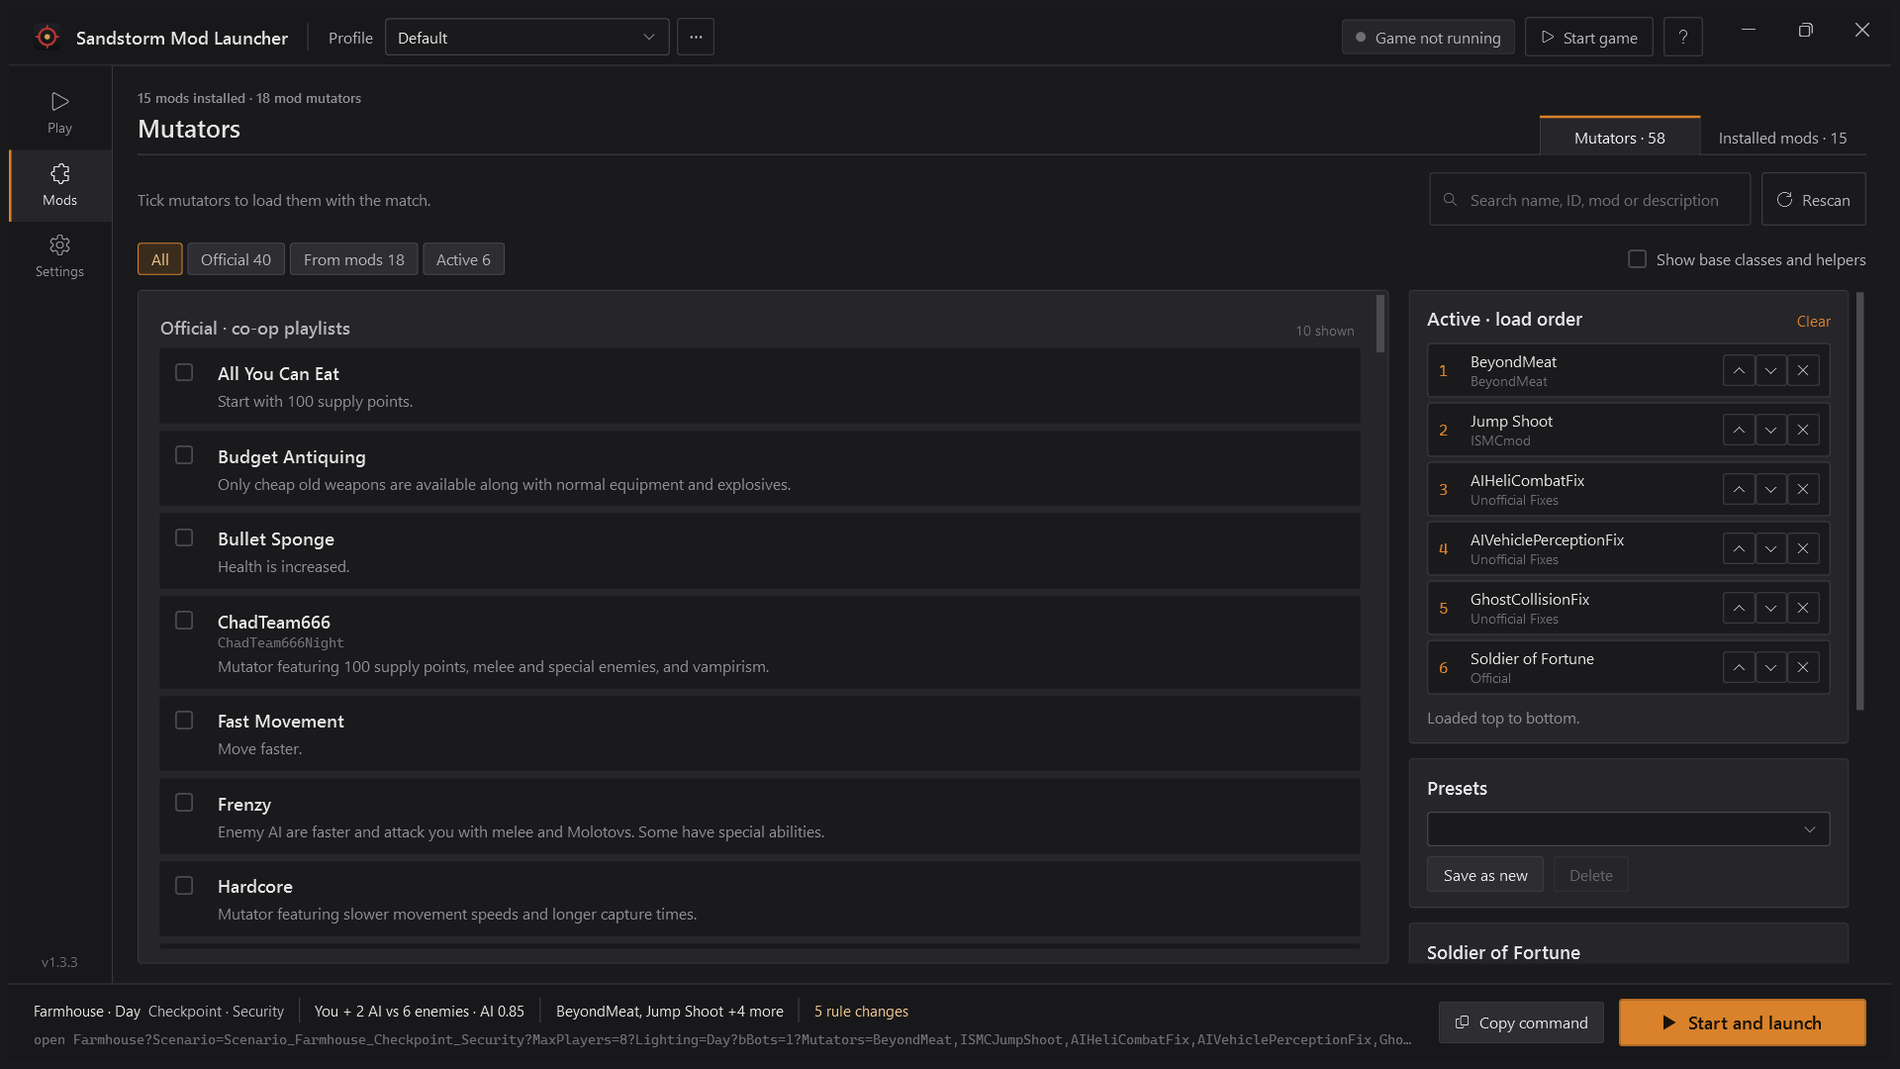
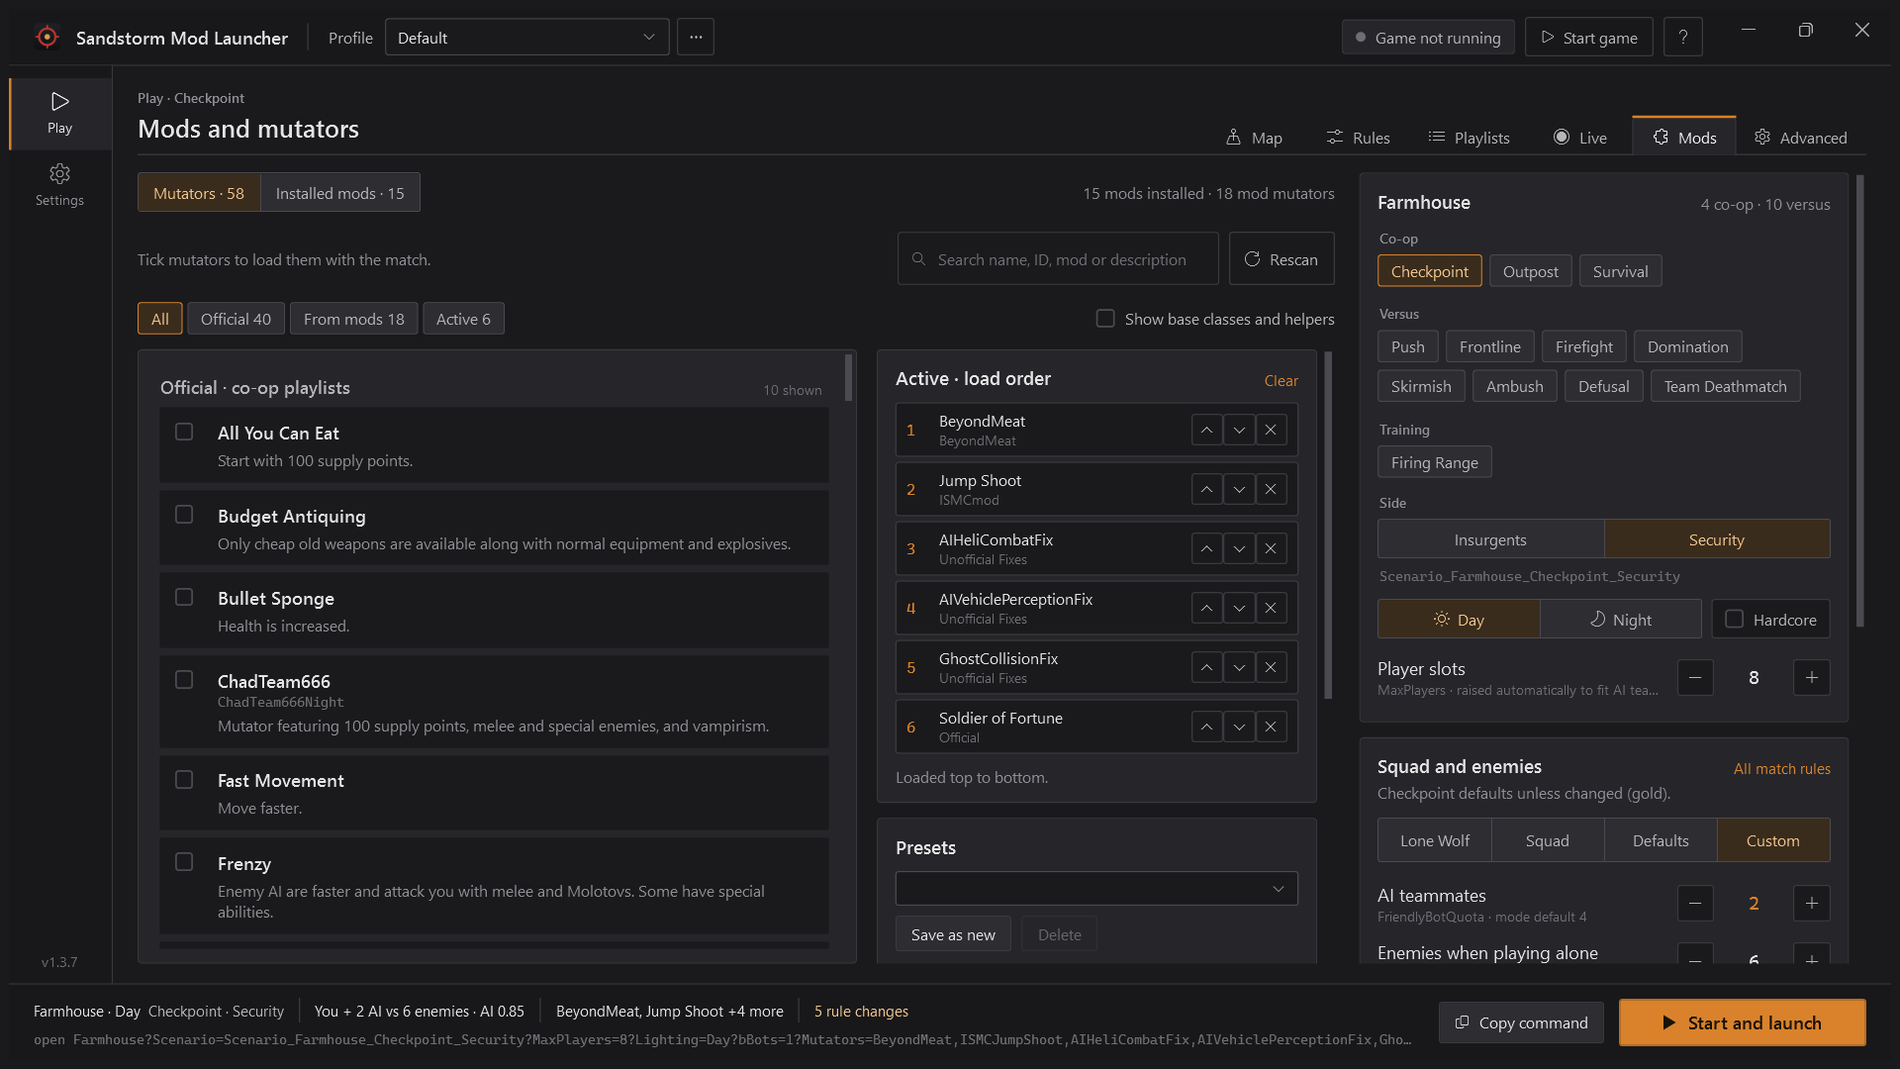
1.3.7: Ambush and Free For All start with bots, Mods as a Play tab
- Versus with bots: MinimumPlayers/MinimumPlayersInProgress above 1 (Ambush, FFA) set to 1, BotQuota 5 when the mode's default is 0 and the profile sets none (Ambush, Defusal, FFA), and player slots raised to fit the bots (2 x BotQuota + 2).

- Mods (Mutators / Installed mods) is a Play tab before Advanced; the Mods nav entry is gone (Page=Mods maps to Play > Mods). Flexible list columns in the Mods tab.

- --plan-test out.txt: open command, slots and after-load commands for one scenario of every mode.

diff --git a/Views/Pages/ModsPage.xaml b/Views/Pages/ModsPage.xaml
@@ -2,45 +2,26 @@
              xmlns="http://schemas.microsoft.com/winfx/2006/xaml/presentation"
              xmlns:x="http://schemas.microsoft.com/winfx/2006/xaml"
              xmlns:p="clr-namespace:SandstormModLauncher.Views.Pages">
-    <UserControl.Resources>
-        <Style x:Key="TabSegment" TargetType="RadioButton" BasedOn="{StaticResource PageTab}">
-            <Setter Property="MinWidth" Value="130" />
-        </Style>
-    </UserControl.Resources>
-    <Grid Margin="20,18,20,16">
+    <!-- A tab of the Play page (since 1.3.7): Play draws the page header, this only switches Mutators / Installed mods. -->
+    <Grid Margin="0,14,0,0">
         <Grid.RowDefinitions>
             <RowDefinition Height="Auto" />
             <RowDefinition Height="*" />
         </Grid.RowDefinitions>
 
-        <Border Style="{StaticResource TabStrip}">
-        <DockPanel LastChildFill="False">
-            <StackPanel DockPanel.Dock="Left" Margin="0,0,0,8">
-                <TextBlock Style="{StaticResource Kicker}" Text="{Binding ModsSummary}" />
-                <TextBlock FontSize="20" Margin="0,2,0,0">
-                    <TextBlock.Style>
-                        <Style TargetType="TextBlock" BasedOn="{StaticResource H1}">
-                            <Setter Property="Text" Value="Mutators" />
-                            <Style.Triggers>
-                                <DataTrigger Binding="{Binding ModsTab}" Value="Installed"><Setter Property="Text" Value="Installed mods" /></DataTrigger>
-                            </Style.Triggers>
-                        </Style>
-                    </TextBlock.Style>
-                </TextBlock>
-            </StackPanel>
-            <Border DockPanel.Dock="Right" VerticalAlignment="Bottom">
+        <DockPanel Margin="0,0,0,2">
+            <TextBlock DockPanel.Dock="Right" Style="{StaticResource Mute}" VerticalAlignment="Center" Text="{Binding ModsSummary}" />
+            <Border Style="{StaticResource SegmentHost}" HorizontalAlignment="Left">
                 <StackPanel Orientation="Horizontal">
-                    <RadioButton Style="{StaticResource TabSegment}" IsChecked="{Binding ModsTab, Converter={StaticResource Eq}, ConverterParameter=Mutators}">
+                    <RadioButton Style="{StaticResource Segment}" MinHeight="30" IsChecked="{Binding ModsTab, Converter={StaticResource Eq}, ConverterParameter=Mutators}">
                         <TextBlock><Run Text="Mutators · " /><Run Text="{Binding TotalMutatorCount, Mode=OneWay}" /></TextBlock>
                     </RadioButton>
-                    <RadioButton Style="{StaticResource TabSegment}" IsChecked="{Binding ModsTab, Converter={StaticResource Eq}, ConverterParameter=Installed}">
+                    <RadioButton Style="{StaticResource Segment}" MinHeight="30" IsChecked="{Binding ModsTab, Converter={StaticResource Eq}, ConverterParameter=Installed}">
                         <TextBlock><Run Text="Installed mods · " /><Run Text="{Binding ModCount, Mode=OneWay}" /></TextBlock>
                     </RadioButton>
                 </StackPanel>
             </Border>
         </DockPanel>
-        </Border>
-
         <p:MutatorsPage Grid.Row="1" Visibility="{Binding ModsTab, Converter={StaticResource Vis}, ConverterParameter=Mutators}" />
 
         <Grid Grid.Row="1" Visibility="{Binding ModsTab, Converter={StaticResource Vis}, ConverterParameter=Installed}">
@@ -76,7 +57,7 @@
 
             <Grid Grid.Row="1">
                 <Grid.ColumnDefinitions>
-                    <ColumnDefinition Width="430" />
+                    <ColumnDefinition Width="0.8*" MinWidth="260" MaxWidth="430" />
                     <ColumnDefinition Width="16" />
                     <ColumnDefinition Width="*" />
                 </Grid.ColumnDefinitions>

diff --git a/Views/Pages/PlayPage.xaml b/Views/Pages/PlayPage.xaml
@@ -72,6 +72,7 @@
                                     <DataTrigger Binding="{Binding PlayTab}" Value="Rules"><Setter Property="Text" Value="Match rules" /></DataTrigger>
                                     <DataTrigger Binding="{Binding PlayTab}" Value="Playlists"><Setter Property="Text" Value="Official playlists" /></DataTrigger>
                                     <DataTrigger Binding="{Binding PlayTab}" Value="Live"><Setter Property="Text" Value="Live match control" /></DataTrigger>
+                                    <DataTrigger Binding="{Binding PlayTab}" Value="Mods"><Setter Property="Text" Value="Mods and mutators" /></DataTrigger>
                                     <DataTrigger Binding="{Binding PlayTab}" Value="Advanced"><Setter Property="Text" Value="Advanced options" /></DataTrigger>
                                 </Style.Triggers>
                             </Style>
@@ -109,6 +110,13 @@
                                              Visibility="{Binding InMatch, Converter={StaticResource Vis}}" />
                                 </Grid>
                                 <TextBlock Text="Live" />
+                            </StackPanel>
+                        </RadioButton>
+                        <RadioButton Style="{StaticResource TabSegment}" IsChecked="{Binding PlayTab, Converter={StaticResource Eq}, ConverterParameter=Mods}"
+                                     ToolTip="Mutators for the match (official and from mods) and the mods the game has installed">
+                            <StackPanel Orientation="Horizontal">
+                                <TextBlock Text="&#xEA86;" Style="{StaticResource Icon}" FontSize="13" Margin="0,0,8,0" />
+                                <TextBlock Text="Mods" />
                             </StackPanel>
                         </RadioButton>
                         <RadioButton Style="{StaticResource TabSegment}" IsChecked="{Binding PlayTab, Converter={StaticResource Eq}, ConverterParameter=Advanced}"
@@ -419,6 +427,7 @@
             <!-- ============================================================ playlists + live -->
             <p:PlaylistsPage Grid.Row="0" Grid.RowSpan="2" Visibility="{Binding PlayTab, Converter={StaticResource Vis}, ConverterParameter=Playlists}" />
             <p:LivePage Grid.Row="0" Grid.RowSpan="2" Visibility="{Binding PlayTab, Converter={StaticResource Vis}, ConverterParameter=Live}" />
+            <p:ModsPage Grid.Row="0" Grid.RowSpan="2" Visibility="{Binding PlayTab, Converter={StaticResource Vis}, ConverterParameter=Mods}" />
 
             <!-- ============================================================ advanced -->
             <Border Grid.Row="0" Grid.RowSpan="2" Style="{StaticResource Card}" Padding="0" Margin="0,14,0,0" Visibility="{Binding PlayTab, Converter={StaticResource Vis}, ConverterParameter=Advanced}">

diff --git a/Views/MainWindow.xaml b/Views/MainWindow.xaml
@@ -127,7 +127,6 @@
                         </StackPanel>
                         <StackPanel Margin="0,10,0,0">
                             <RadioButton Style="{StaticResource NavButton}" Content="Play" Tag="&#xE768;" IsChecked="{Binding Page, Converter={StaticResource Eq}, ConverterParameter=Play}" ToolTip="Map, squad, rules, official playlists and live control of the match" />
-                            <RadioButton Style="{StaticResource NavButton}" Content="Mods" Tag="&#xEA86;" IsChecked="{Binding Page, Converter={StaticResource Eq}, ConverterParameter=Mods}" ToolTip="Mutators (official and from mods) and installed mods" />
                             <RadioButton Style="{StaticResource NavButton}" Content="Settings" Tag="&#xE713;" IsChecked="{Binding Page, Converter={StaticResource Eq}, ConverterParameter=Settings}" ToolTip="Game folder, console key, launch options" />
                         </StackPanel>
                     </DockPanel>
@@ -138,7 +137,6 @@
                     <Grid MinWidth="980" MinHeight="600"
                           Width="{Binding ViewportWidth, ElementName=pageScroll}" Height="{Binding ViewportHeight, ElementName=pageScroll}">
                         <p:PlayPage Visibility="{Binding Page, Converter={StaticResource Vis}, ConverterParameter=Play}" />
-                        <p:ModsPage Visibility="{Binding Page, Converter={StaticResource Vis}, ConverterParameter=Mods}" />
                         <p:SettingsPage Visibility="{Binding Page, Converter={StaticResource Vis}, ConverterParameter=Settings}" />
                     </Grid>
                 </ScrollViewer>

diff --git a/Views/Pages/MutatorsPage.xaml b/Views/Pages/MutatorsPage.xaml
@@ -50,7 +50,7 @@
             <Grid.ColumnDefinitions>
                 <ColumnDefinition Width="*" />
                 <ColumnDefinition Width="16" />
-                <ColumnDefinition Width="370" />
+                <ColumnDefinition Width="0.8*" MinWidth="240" MaxWidth="370" />
             </Grid.ColumnDefinitions>
 
             <!-- list -->

diff --git a/Game/LaunchPlan.cs b/Game/LaunchPlan.cs
@@ -117,6 +117,18 @@ namespace SandstormModLauncher.Game
                 && !(p.Rules.TryGetValue(cls, out var own) && own.ContainsKey("bBots")))
                 plan.Overrides["bBots"] = "True";
 
+            // Ambush and Free For All wait for two human players (MinimumPlayers=2) before the match starts, and bots
+            // only join once it has started, so offline they sat at "waiting for players" with no bots. With bots on,
+            // one player is enough (unless the profile sets these itself).
+            bool versusBots = plan.Mode != null && !plan.Mode.Coop && plan.Overrides.TryGetValue("bBots", out var vb) && IsTrue(vb);
+            // Ambush, Defusal and Free For All also default to BotQuota=0: bots "on" but none would come.
+            if (versusBots && !plan.Overrides.ContainsKey("BotQuota") && int.TryParse(db.DefaultValue(cls, "BotQuota"), out int dq) && dq <= 0)
+                plan.Overrides["BotQuota"] = "5";
+            if (versusBots)
+                foreach (var key in new[] { "MinimumPlayers", "MinimumPlayersInProgress" })
+                    if (int.TryParse(db.DefaultValue(cls, key), out int min) && min > 1 && !(p.Rules.TryGetValue(cls, out var own3) && own3.ContainsKey(key)))
+                        plan.Overrides[key] = "1";
+
             // Co-op AI teammates only join when the mode fills teams with bots (bBots is off by default).
             if (plan.Mode != null && plan.Mode.Coop && plan.Mode.Defaults.ContainsKey("bBots")
                 && int.TryParse(plan.Overrides.TryGetValue("FriendlyBotQuota", out var fbq) ? fbq : db.DefaultValue(cls, "FriendlyBotQuota"), out int fbn) && fbn > 0
@@ -135,6 +147,14 @@ namespace SandstormModLauncher.Game
                 wantsMates = int.TryParse(fb, out int mates) && mates > 0;
                 // Offline nobody else joins, so plenty of slots costs nothing; too few and the AI teammates do not join.
                 if (wantsMates) plan.PlayerSlots = Math.Max(plan.PlayerSlots, Math.Max(8, 1 + mates + 2));
+            }
+            else if (versusBots)
+            {
+                // Versus bots take player slots as well (BotQuota per team, or all the bots in Free For All): a profile
+                // left at 1 slot from Lone Wolf co-op meant no bot could join.
+                string bq = plan.Overrides.TryGetValue("BotQuota", out var bqo) ? bqo : db.DefaultValue(cls, "BotQuota");
+                int quota = int.TryParse(bq, out int q) && q > 0 ? q : 5;
+                plan.PlayerSlots = Math.Max(plan.PlayerSlots, Math.Min(64, 2 * quota + 2));
             }
             url.Append("?MaxPlayers=").Append(plan.PlayerSlots);
             url.Append("?Lighting=").Append(p.Lighting == "Night" ? "Night" : "Day");

diff --git a/Services/SelfTest.cs b/Services/SelfTest.cs
@@ -102,6 +102,35 @@ namespace SandstormModLauncher
             File.WriteAllText(outFile + ".plan.txt", "Open: " + plan.OpenCommand + "\r\nPlayer slots: " + plan.PlayerSlots + "\r\n\r\n" + plan.GameIniBlock);
         }
 
+        /// <summary>--plan-test out.txt: the open command and after-load commands for one scenario of every game mode (active profile).</summary>
+        public static void PlanTest(string outFile)
+        {
+            var state = new AppState();
+            state.Store.Load();
+            state.Rules = RulesDb.LoadEmbedded();
+            state.Install = GameInstall.Detect(state.Settings.GameDirOverride);
+            string cache = GameInstall.DemoCacheDir ?? Path.Combine(AppPaths.DataDir, "cache");
+            state.Official = GameCatalog.Load(state.Install, cache, m => { });
+            state.Mods = ModScanner.Scan(state.Install, state.Settings.ExtraModFolders, cache, m => { });
+            state.Rebuild();
+            var sb = new StringBuilder();
+            var p = state.Store.Active;
+            string keepMap = p.MapKey, keepScenario = p.ScenarioId;
+            foreach (var group in state.AllScenarios.Where(s => s.Category != "Training").GroupBy(s => s.GameModeClass))
+            {
+                var sc = group.First();
+                p.ScenarioId = sc.Id;
+                p.MapKey = state.Maps.FirstOrDefault(m => m.Scenarios.Any(x => x.Id == sc.Id))?.Key;
+                var plan = LaunchPlanner.Build(p, state);
+                sb.AppendLine("== " + group.Key + "  (" + sc.Id + ")");
+                sb.AppendLine("   " + plan.OpenCommand);
+                sb.AppendLine("   slots " + plan.PlayerSlots + "   after load: " + string.Join(" | ", plan.AfterLoad));
+                if (plan.Error != null) sb.AppendLine("   ERROR " + plan.Error);
+            }
+            p.MapKey = keepMap; p.ScenarioId = keepScenario;
+            File.WriteAllText(outFile, sb.ToString(), Encoding.UTF8);
+        }
+
         private static string Trim(string s, int n) => string.IsNullOrEmpty(s) ? "" : (s.Length > n ? s.Substring(0, n) + "..." : s).Replace("\n", " ");
     }
 }

diff --git a/ViewModels/MainViewModel.Settings.cs b/ViewModels/MainViewModel.Settings.cs
@@ -69,7 +69,7 @@ namespace SandstormModLauncher.ViewModels
             HelpCommand = new AsyncCommand(() => ShowMessage("How it works",
                 "1. PLAY > Map: pick a map and scenario, then set your squad and the enemies on the right. Every value starts at that mode's own default. Changed values turn gold.\n\n" +
                 "2. PLAY > Rules has every other match setting of that mode, with play-style presets and the official rulesets. PLAY > Playlists sets up any official online playlist for offline play. PLAY > Advanced shows exactly what will be sent to the game.\n\n" +
-                "3. MODS > Mutators: tick what you want, in load order. MODS > Installed mods lists what the game has downloaded.\n\n" +
+                "3. PLAY > Mods: tick the mutators you want, in load order. Installed mods lists what the game has downloaded.\n\n" +
                 "4. Press LAUNCH (or F5). The launcher writes your rules to Game.ini, starts the game if needed, waits for the main menu and sends the match through the console. It checks on screen that the console is open before typing, and stops if it is not. Keep your hands off the keyboard for those few seconds.\n\n" +
                 "5. PLAY > Live works during a match: restart rounds, set the clock, respawn bots, change rules, without typing commands.\n\n" +
                 "Something wrong? Settings > Something went wrong? saves a report on this PC, or shows a cleaned one you can post on the project's GitHub."));

diff --git a/ViewModels/MainViewModel.Mods.cs b/ViewModels/MainViewModel.Mods.cs
@@ -1,4 +1,4 @@
-using System;
+using System;
 using System.Collections.Generic;
 using System.Collections.ObjectModel;
 using System.ComponentModel;
@@ -48,7 +48,7 @@ namespace SandstormModLauncher.ViewModels
         private void InitModCommands()
         {
             RescanModsCommand = new AsyncCommand(() => RescanMods(false));
-            ModsTabCommand = new RelayCommand(p => { Page = "Mods"; ModsTab = p as string ?? "Mutators"; });
+            ModsTabCommand = new RelayCommand(p => { Page = "Play"; PlayTab = "Mods"; ModsTab = p as string ?? "Mutators"; });
             OpenModFolderCommand = new RelayCommand(p =>
             {
                 string folder = (p as ModItem)?.Info.Folder;
@@ -97,7 +97,7 @@ namespace SandstormModLauncher.ViewModels
             var usable = item.Info.Mutators.Where(m => m.Registered && !m.IsBaseClass).ToList();
             if (usable.Count == 0) { ShowToast("This mod has no mutators to add"); return; }
             if (usable.Count == 1) SetMutatorActive(usable[0].Id, true);
-            else { Page = "Mods"; ModsTab = "Mutators"; MutatorSearch = item.Name; ShowToast("Pick which of the " + usable.Count + " mutators to use"); return; }
+            else { Page = "Play"; PlayTab = "Mods"; ModsTab = "Mutators"; MutatorSearch = item.Name; ShowToast("Pick which of the " + usable.Count + " mutators to use"); return; }
             ShowToast(usable[0].DisplayName + " added to your mutators");
         }
 

diff --git a/App.xaml.cs b/App.xaml.cs
@@ -153,6 +153,15 @@ namespace SandstormModLauncher
                 return;
             }
 
+            if (eArgs.Length >= 2 && eArgs[0] == "--plan-test")
+            {
+                ShutdownMode = ShutdownMode.OnExplicitShutdown;
+                try { SelfTest.PlanTest(eArgs[1]); }
+                catch (Exception ex) { File.WriteAllText(eArgs[1], "PLAN TEST CRASHED: " + ex); }
+                Shutdown();
+                return;
+            }
+
             if (eArgs.Length >= 2 && eArgs[0] == "--selftest")
             {
                 ShutdownMode = ShutdownMode.OnExplicitShutdown;
@@ -227,7 +236,7 @@ namespace SandstormModLauncher
                 Layout();
                 var init = vm.InitializeAsync();
                 for (int i = 0; i < 600 && vm.Loading; i++) await Task.Delay(100);
-                if (pages.Count == 0) pages = new System.Collections.Generic.List<string> { "Play", "Play-Rules", "Play-Playlists", "Play-Live", "Play-Advanced", "Mods", "Mods-Installed", "Settings" };
+                if (pages.Count == 0) pages = new System.Collections.Generic.List<string> { "Play", "Play-Rules", "Play-Playlists", "Play-Live", "Mods", "Mods-Installed", "Play-Advanced", "Settings" };
                 foreach (var page in pages)
                 {
                     // "Play-Rules" = page Play, tab Rules

diff --git a/ViewModels/MainViewModel.cs b/ViewModels/MainViewModel.cs
@@ -1,4 +1,4 @@
-using System;
+using System;
 using System.Collections.Generic;
 using System.Collections.ObjectModel;
 using System.Diagnostics;
@@ -179,6 +179,8 @@ namespace SandstormModLauncher.ViewModels
             get => page;
             set
             {
+                // Mods is a tab of Play since 1.3.7 (older settings and links still say "Mods").
+                if (value == "Mods") { value = "Play"; PlayTab = "Mods"; }
                 if (!Set(ref page, value)) return;
                 State.Settings.LastPage = value;
                 SaveSettingsSoon();

diff --git a/README.md b/README.md
@@ -11,7 +11,7 @@ Local play launcher for **Insurgency: Sandstorm**. Play offline with bots, mods 
 ## Features
 
 - All official maps and scenarios plus mod maps, day or night, Hardcore Checkpoint
-- Play page with fixed tabs: Map (map, squad and enemies), Rules (every setting of the selected mode), Playlists (all official online playlists), Live (control of the running match) and Advanced. Mods page: all mutators (official ones grouped by the co-op and versus playlists that use them) and the installed mods
+- One Play page with fixed tabs: Map (map, squad and enemies), Rules (every setting of the selected mode), Playlists (all official online playlists), Live (control of the running match), Mods (all mutators, official ones grouped by the playlists that use them, and the installed mods) and Advanced
 - Lone Wolf, a squad of AI teammates, or your own mix of teammates, enemy counts and AI difficulty, starting from each mode's real defaults. Separate squad settings for co-op and versus; versus with bots as 1v1, 5v5, 10v10 or any team size
 - All official and mod mutators, read from the mods the game has installed, with load order and presets
 - Every game mode setting (100+ per mode): rounds, time, waves, objectives, counter-attacks, respawns, supply, friendly fire, HUD

diff --git a/packaging/release-notes.md b/packaging/release-notes.md
@@ -1,5 +1,11 @@
 Local play launcher for Insurgency: Sandstorm: bots, mods, mutators and full match rules offline.
 
+**Changes in 1.3.7**
+
+- Fixed: Ambush and Free For All stayed at "waiting for players" with no bots. Both modes wait for two human players before the match starts, and bots only join after that. With bots on, one player is now enough, the modes get a bot count (5 when none is set) and enough player slots for all bots.
+- Mods are now a tab of Play (Map, Rules, Playlists, Live, Mods, Advanced), next to everything else you set up for a match. The left bar has Play and Settings.
+- The Mods tab keeps its lists readable at large text sizes.
+
 **Changes in 1.3.6**
 
 - New license: source available, all rights reserved. The code stays public so anyone can read and check it, but it may not be copied, redistributed or reused in other projects (personal ones included) without permission. Versions up to 1.3.5 keep their MIT license.
